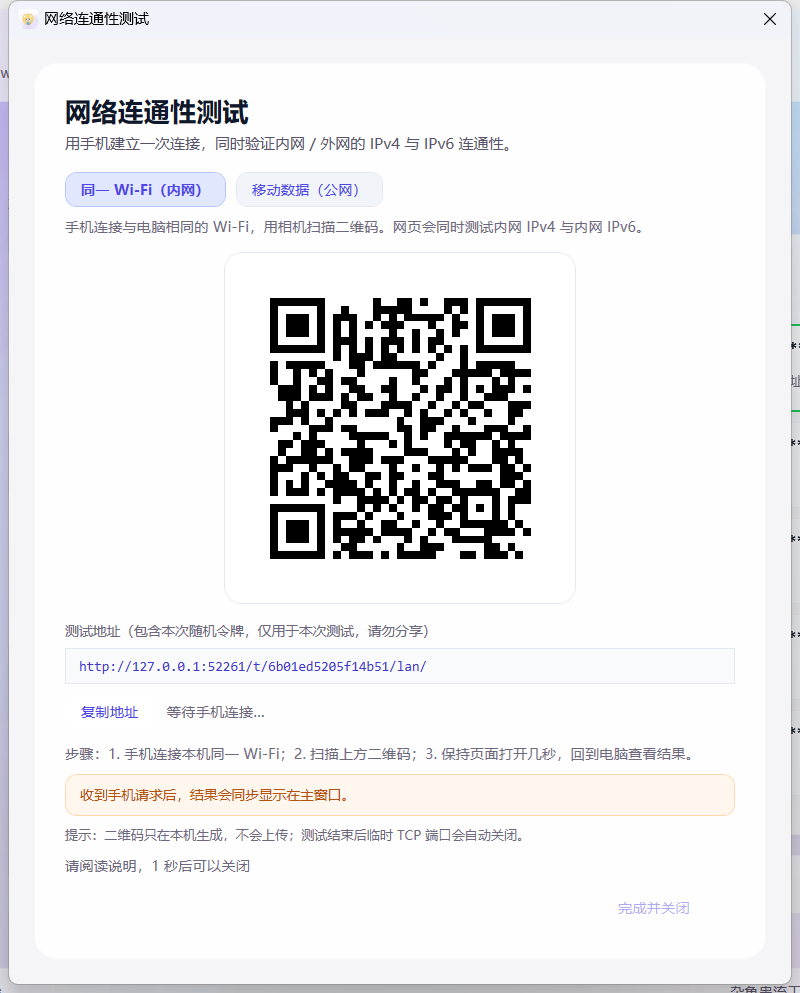
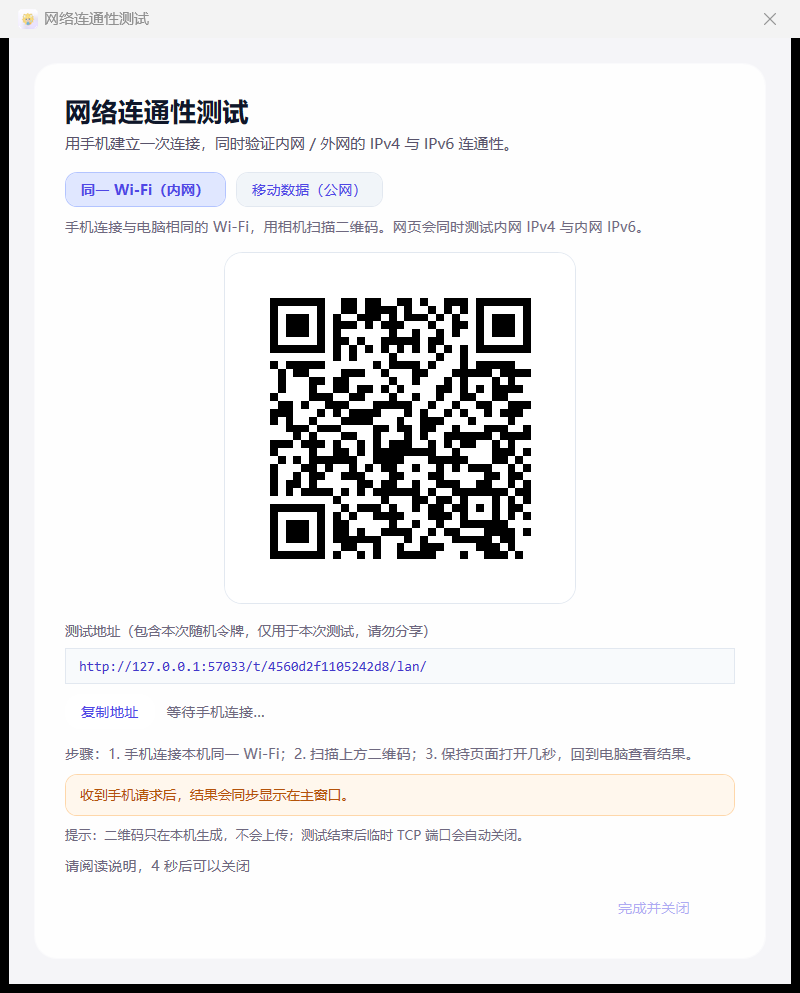
fix: 延长连通性测试倒计时并关闭焦点虚线框

diff --git a/src/IpInfo.App/ConnectivityTestDialog.xaml b/src/IpInfo.App/ConnectivityTestDialog.xaml
@@ -1,4 +1,4 @@
-<Window x:Class="IpInfo.App.ConnectivityTestDialog"
+<Window x:Class="IpInfo.App.ConnectivityTestDialog"
         xmlns="http://schemas.microsoft.com/winfx/2006/xaml/presentation"
         xmlns:x="http://schemas.microsoft.com/winfx/2006/xaml"
         Title="网络连通性测试"
@@ -8,6 +8,7 @@
         ResizeMode="NoResize"
         WindowStartupLocation="CenterOwner"
         ShowInTaskbar="False"
+        FocusVisualStyle="{x:Null}"
         Background="#F5F5F8"
         FontFamily="Microsoft YaHei UI"
         UseLayoutRounding="True"
@@ -68,7 +69,7 @@
                 <TextBlock Text="提示：二维码只在本机生成，不会上传；测试结束后临时 TCP 端口会自动关闭。"
                            FontSize="10.5" Foreground="#6E687F" TextWrapping="Wrap" Margin="0,9,0,0"/>
 
-                <TextBlock x:Name="CountdownText" Text="请阅读说明，3 秒后可以关闭" FontSize="11.5"
+                <TextBlock x:Name="CountdownText" Text="请阅读说明，6 秒后可以关闭" FontSize="11.5"
                            Foreground="#6E687F" Margin="0,10,0,0"/>
 
                 <Button x:Name="CloseButton" Content="完成并关闭" IsEnabled="False" Width="130" Height="34"

diff --git a/src/IpInfo.App/MainWindow.xaml b/src/IpInfo.App/MainWindow.xaml
@@ -1,4 +1,4 @@
-<Window x:Class="IpInfo.App.MainWindow"
+<Window x:Class="IpInfo.App.MainWindow"
         xmlns="http://schemas.microsoft.com/winfx/2006/xaml/presentation"
         xmlns:x="http://schemas.microsoft.com/winfx/2006/xaml"
         xmlns:views="clr-namespace:IpInfo.App"
@@ -6,6 +6,7 @@
         Width="1180" Height="840"
         MinWidth="960" MinHeight="680"
         WindowStartupLocation="CenterScreen"
+        FocusVisualStyle="{x:Null}"
         Background="{StaticResource BgBrush}"
         FontFamily="Microsoft YaHei UI"
         UseLayoutRounding="True"
@@ -525,6 +526,7 @@
                         </Grid>
 
                         <Expander x:Name="NatDetailExpander" Grid.Row="4" Margin="0,10,0,0" FontSize="11.5"
+                                  FocusVisualStyle="{x:Null}"
                                   Foreground="#58536A" Header="查看检测详情" Visibility="Collapsed">
                             <Border Background="#66FFFFFF" CornerRadius="8" Padding="10,8" Margin="0,6,0,0">
                                 <ScrollViewer MaxHeight="140" VerticalScrollBarVisibility="Auto"

diff --git a/src/IpInfo.App/App.xaml b/src/IpInfo.App/App.xaml
@@ -14,6 +14,17 @@
         <DropShadowEffect x:Key="SidebarShadow" Color="#1D1D1F" BlurRadius="30" ShadowDepth="5"
                           Direction="270" Opacity="0.08"/>
 
+        <!-- 全局关闭键盘焦点虚线框：覆盖系统默认 FocusVisualStyle，避免 Ctrl+Alt 切回窗口时出现虚线框。 -->
+        <Style x:Key="{x:Static SystemParameters.FocusVisualStyleKey}" TargetType="{x:Type Control}">
+            <Setter Property="Template">
+                <Setter.Value>
+                    <ControlTemplate TargetType="{x:Type Control}">
+                        <Border Background="Transparent" BorderThickness="0"/>
+                    </ControlTemplate>
+                </Setter.Value>
+            </Setter>
+        </Style>
+
         <Style TargetType="{x:Type ScrollBar}">
             <Setter Property="Width" Value="5"/>
             <Setter Property="Background" Value="Transparent"/>

diff --git a/src/IpInfo.App/WebView2InstallDialog.xaml b/src/IpInfo.App/WebView2InstallDialog.xaml
@@ -1,4 +1,4 @@
-<Window x:Class="IpInfo.App.WebView2InstallDialog"
+<Window x:Class="IpInfo.App.WebView2InstallDialog"
         xmlns="http://schemas.microsoft.com/winfx/2006/xaml/presentation"
         xmlns:x="http://schemas.microsoft.com/winfx/2006/xaml"
         Title="安装 / 修复 WebView2"
@@ -8,6 +8,7 @@
         ResizeMode="NoResize"
         WindowStartupLocation="CenterOwner"
         ShowInTaskbar="False"
+        FocusVisualStyle="{x:Null}"
         Background="#F5F5F8"
         FontFamily="Microsoft YaHei UI"
         UseLayoutRounding="True"

diff --git a/src/IpInfo.App/App.xaml.cs b/src/IpInfo.App/App.xaml.cs
@@ -2,6 +2,7 @@ using System;
 using System.IO;
 using System.Reflection;
 using System.Windows;
+using System.Windows.Input;
 using System.Windows.Threading;
 using IpInfo.Core;
 
@@ -44,6 +45,15 @@ namespace IpInfo.App
             }
         }
 
+        private static void OnPreviewGotKeyboardFocus(object sender, KeyboardFocusChangedEventArgs e)
+        {
+            FrameworkElement element = sender as FrameworkElement;
+            if (element != null)
+            {
+                element.FocusVisualStyle = null;
+            }
+        }
+
         protected override void OnStartup(StartupEventArgs e)
         {
             base.OnStartup(e);
@@ -58,6 +68,11 @@ namespace IpInfo.App
             }
 
             DispatcherUnhandledException += App_DispatcherUnhandledException;
+
+            // 保险：即使某个控件没有显式设置 FocusVisualStyle，也不显示键盘焦点虚线框。
+            EventManager.RegisterClassHandler(typeof(FrameworkElement),
+                Keyboard.PreviewGotKeyboardFocusEvent,
+                new KeyboardFocusChangedEventHandler(OnPreviewGotKeyboardFocus));
 
             string renderPath = null;
             bool reveal = false;

diff --git a/src/IpInfo.App/ConnectivityTestDialog.xaml.cs b/src/IpInfo.App/ConnectivityTestDialog.xaml.cs
@@ -13,7 +13,7 @@ namespace IpInfo.App
         private readonly ConnectivityTestServer _server;
         private readonly Action<ConnectivityTestMode> _onModeShown;
         private ConnectivityTestMode _mode;
-        private int _remainingSeconds = 3;
+        private int _remainingSeconds = 6;
         private bool _canClose;
         private bool _syncingMode;
         private DispatcherTimer _timer;
@@ -209,7 +209,7 @@ namespace IpInfo.App
             }
         }
 
-        /// <summary>主窗口停止测试时强制关闭，绕过 3 秒阅读倒计时。</summary>
+        /// <summary>主窗口停止测试时强制关闭，绕过 6 秒阅读倒计时。</summary>
         public void ForceClose()
         {
             _canClose = true;

diff --git a/README.md b/README.md
@@ -34,7 +34,7 @@
   - 电脑侧另外主动连接公共 IPv4 TCP 端口，并结合 STUN 得到的 NAT 类型，判断 IPv4 打洞可行性
   - 结论优先推荐 IPv6 直连；IPv4 锥型 NAT 提示可打洞；对称 NAT 提示可能需要中继；IPv4 / IPv6 都不通则明确提示「无法建立有效 P2P 连接」
   - 二维码在本机离线生成（QRCoder 嵌入 exe），测试地址带随机令牌，测试结束或 90 秒超时后自动关闭临时端口
-  - 保留手动复制地址的打开方式；说明窗口带 3 秒倒计时，关闭按钮为「完成并关闭」
+  - 保留手动复制地址的打开方式；说明窗口带 6 秒倒计时，关闭按钮为「完成并关闭」
   - 显示 Windows 防火墙状态（管理员权限不足时从注册表推断，并明确标注“推断”）
 - **主地址智能选择**
   - 优先使用系统实际选路的物理网卡（`GetBestInterface` + 网关 + 地址类型综合判断）
@@ -51,6 +51,8 @@
 - **高分屏适配**
   - 清单启用 Per-Monitor V2 DPI 感知，并配置 WPF `DoNotScaleForDpiChanges=false`
   - 窗口启动/跨屏移动时自动限制在当前屏幕可用区域内，125% / 150% 缩放下不会超出屏幕；内容用 ScrollViewer 兜底
+- **键盘焦点样式**
+  - 全局关闭键盘焦点虚线框；按 Ctrl+Alt 切回窗口时不会出现虚线框
 - 检测异步执行，不阻塞界面；检测失败时仍会显示本机地址
 - 所有数据仅在本机处理，不上传到任何第三方服务
 
@@ -91,7 +93,7 @@ powershell -ExecutionPolicy Bypass -File .\tools\build.ps1 -Debug -Tests
 powershell -ExecutionPolicy Bypass -STA -File .\tools\ui-smoke-test.ps1
 ```
 
-UI 冒烟测试会通过 UI Automation 操作离屏窗口，校验 68 项行为，包括：默认遮罩、复制得到完整 IPv4/IPv6、显示/隐藏切换、网络连通性测试窗口的二维码与 3 秒倒计时、回环 IPv4/IPv6 探测后矩阵变为「连通」并给出 P2P 结论，以及 WebView2 状态卡片、诊断复制和安装窗口。
+UI 冒烟测试会通过 UI Automation 操作离屏窗口，校验 69 项行为，包括：默认遮罩、复制得到完整 IPv4/IPv6、显示/隐藏切换、网络连通性测试窗口的二维码与 6 秒倒计时、回环 IPv4/IPv6 探测后矩阵变为「连通」并给出 P2P 结论，以及 WebView2 状态卡片、诊断复制和安装窗口。
 
 > 仓库已包含 `.github/workflows/build.yml`：推送到 GitHub 后会自动构建 Release、运行离线核心测试并上传构建产物。
 

diff --git a/CHANGELOG.md b/CHANGELOG.md
@@ -14,12 +14,14 @@
 - 新增手机扫描二维码的连接方式：
   - 本机离线生成二维码（QRCoder 嵌入 exe，不依赖二维码服务）；
   - 测试地址使用随机令牌，窗口关闭或 90 秒超时后自动关闭临时端口；
-  - 保留手动复制地址的打开方式，说明窗口仍为 3 秒倒计时。
+  - 保留手动复制地址的打开方式，说明窗口仍为 6 秒倒计时。
 - 网络检测页说明、导航文案与 README 同步更新。
+- 网络连通性测试弹窗的关闭倒计时由 3 秒延长到 6 秒。
+- 全局关闭键盘焦点虚线框，按 Ctrl+Alt 切回窗口时不再出现虚线框。
 
 ### 构建与测试
 
-- 核心离线测试增至 161 项，UI 冒烟测试增至 68 项。
+- 核心离线测试增至 161 项，UI 冒烟测试增至 69 项。
 - 新增 QRCoder 嵌入资源与第三方许可说明 `THIRD-PARTY-NOTICES.md`。
 - 本次改动尚未发布，版本号暂保持 1.7。
 
